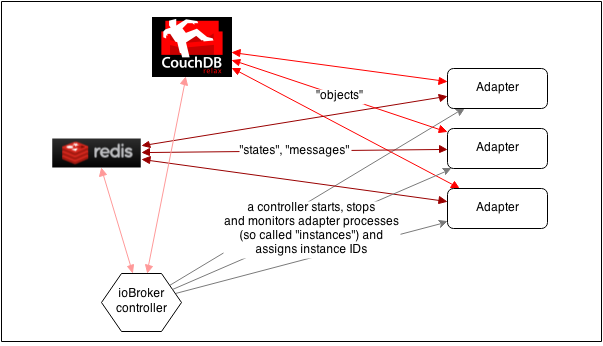
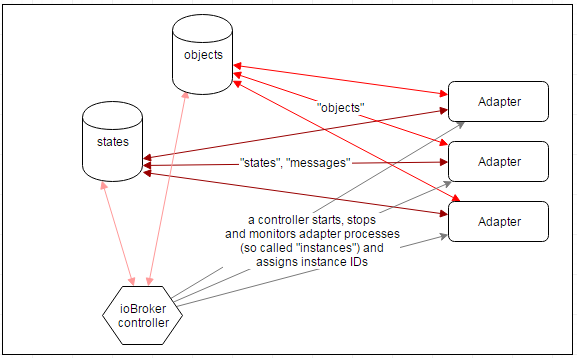
(bluefox) update docu

diff --git a/README.md b/README.md
@@ -10,19 +10,18 @@
 
 See [ioBroker wiki](https://github.com/ioBroker/ioBroker/wiki/Home-(English)) for more information
 
-
 [ioBroker website](http://iobroker.net)
 [Bug tracking JIRA](http://iobroker.net:8000)
 [Demo admin](http://iobroker.net:8081)
 [Demo VIS](https://iobroker.net:8080)
-
+[Forum](http://forum.iobroker.net)
+[Whiteboard](https://trello.com/b/q0SZKdfW)
+[Statistics](http://download.iobroker.net/stat.html)
 
 ioBroker is an integration platform for the [Internet of Things](http://en.wikipedia.org/wiki/Internet_of_Things),
 focused on Building Automation, Smart Metering, Ambient Assisted Living, Process Automation, Visualization and
-Data Logging. It aims to be a possible replacement for software like f.e. [fhem](http://fhem.de),
-[OpenHAB](http://www.openhab.org/) or [the thing system](http://thethingsystem.com/) by the end of 2014. ioBroker will
-be the successor of [CCU.IO](http://ccu.io), a project quite popular in the
-[german HomeMatic community](http://homematic-forum.de/forum/).
+Data Logging. It like a software f.e. [fhem](http://fhem.de), [OpenHAB](http://www.openhab.org/) or
+[the thing system](http://thethingsystem.com/).
 
 ## Concept
 
@@ -34,10 +33,15 @@ between different systems.
 
 #### Databases
 
-ioBroker uses [Redis](http://redis.io/) and [CouchDB](http://couchdb.apache.org/). Redis is an in-memory key-value data
-store and also a message broker with publish/subscribe pattern. It's used to maintain and publish all states of
-connected systems. CouchDB is used to store rarely changing and larger data, like metadata of systems and things,
-configurations or any additional files.
+ioBroker uses "in memory" database to hold the data and saves it on disk with resonable intervals. There are two types of
+storage:
+- states (values)
+- objects (meta/configuration information)
+
+States can be stored in "in memory" or in redis. Objects can be stored only in "in memory" DB.
+
+[Redis](http://redis.io/) is an in-memory key-value data store and also a message broker with publish/subscribe pattern.
+It's used to maintain and publish all states of connected systems.
 
 #### Adapters
 
@@ -51,24 +55,23 @@ adapter development in other languages are planned (python, java, perl, ...).
 
 See actual list of adapters on [iobroker.net](http://iobroker.net)
 
-
 #### Security
 
 ioBroker is designed to be accessed by trusted adapters inside trusted networks. This means that usually it is not a
 good idea to expose the ioBroker databases, adapters or any smarthome devices directly to the internet or, in general,
 to an environment where untrusted clients can directly access these network services. Adapters that offer services
-supposed to be exposed to the internet should be handled with care, for example with additional security measures
-like VPN, VLAN and reverse proxys.
-
-
+supposed to be exposed to the internet should be handled with care. You should always activate **HTTPS** and use valid
+certificates for web, admin if open it for internet or for example use it with additional security measures like VPN,
+VLAN and reverse proxies.
 
 ## Getting Started
 
 #### Operating System and Hardware
 
-[ioBroker.nodejs](https://github.com/iobroker/ioBroker.nodejs/) should run on any hardware and os that runs
-[Node.js](http://nodejs.org/) (ARM, x86, Windows, Linux, OSX). Binary builds for CouchDB and Redis are also available
-for the ARM and x86 under Windows, Linux and OSX. ioBroker spawns a new Node.js-Process for every adapter instance, so
+[ioBroker.js-controller](https://github.com/iobroker/ioBroker.js-controller/) should run on any hardware and os that runs
+[Node.js](http://nodejs.org/) (ARM, x86, Windows, Linux, OSX). Binary builds for Redis are also available
+for the ARM and x86 under Windows, Linux and OSX. Although redis is not required if it is not high load system.
+ioBroker spawns a new Node.js-Process for every adapter instance, so
 RAM becomes is a limiting factor. A single adapters memory fingerprint is roundabout 10-60MB. Since CouchDB can create
 quite a lot of load a dual core system is beneficial.
 
@@ -78,30 +81,26 @@ We recommend x86 based or ARM based systems like [BananaPi](http://www.bananapi.
 #### Installation and first steps
 
 * automated installation packages for windows and linux coming soon
-* [ioBroker.nodejs manual install](https://github.com/iobroker/ioBroker.nodejs/blob/master/README.md)
+* [ioBroker.net](http://iobroker.net) => Installation
 
 #### Community support
 
-* get help in the [ioBroker Forums](http://forum.iobroker.org) (english, german and russian language)
+* get help in the [ioBroker Forums](http://forum.iobroker.net) (english, german and russian languages)
 
 
 ## Docs for (adapter-)developers
 
 * [Core Concepts and Database Schema](doc/SCHEMA.md)
-* [Example Javascript/Node.js Adapter](https://github.com/ioBroker/ioBroker.nodejs/blob/master/adapter/example/example.js)
+* [Example Javascript/Node.js Adapter](https://github.com/ioBroker/ioBroker.template)
 * [ioBroker styleguides](doc/STYLE.md)
-* [ioBroker.nodejs Changelog](https://github.com/ioBroker/ioBroker.nodejs/blob/master/CHANGELOG.md)
-* [ioBroker.nodejs Roadmap](https://github.com/ioBroker/ioBroker.nodejs/blob/master/ROADMAP.md)
-* Direct access to all ioBroker Objects is possible via the CouchDB-Webinterface "Futon": ```http://<couch>:5984/_utils/```
-* Use the view selector on the upper right in CouchDB to browse ioBroker objects
-* you can use ```redis_cli``` and issue the command ```PSUBSCRIBE *``` to watch all stateChange Events on the Console
-
+* [ioBroker.nodejs Changelog](https://github.com/ioBroker/ioBroker.js-controller/blob/master/CHANGELOG.md)
+* [ioBroker.nodejs Roadmap](https://github.com/ioBroker/ioBroker.js-controller/blob/master/ROADMAP.md)
 
 ## License
 
 The MIT License (MIT)
 
-Copyright (c) 2014-2016 bluefox
+Copyright (c) 2014-2017 bluefox<dogafox@gmail.com>
 
 Permission is hereby granted, free of charge, to any person obtaining a copy
 of this software and associated documentation files (the "Software"), to deal
